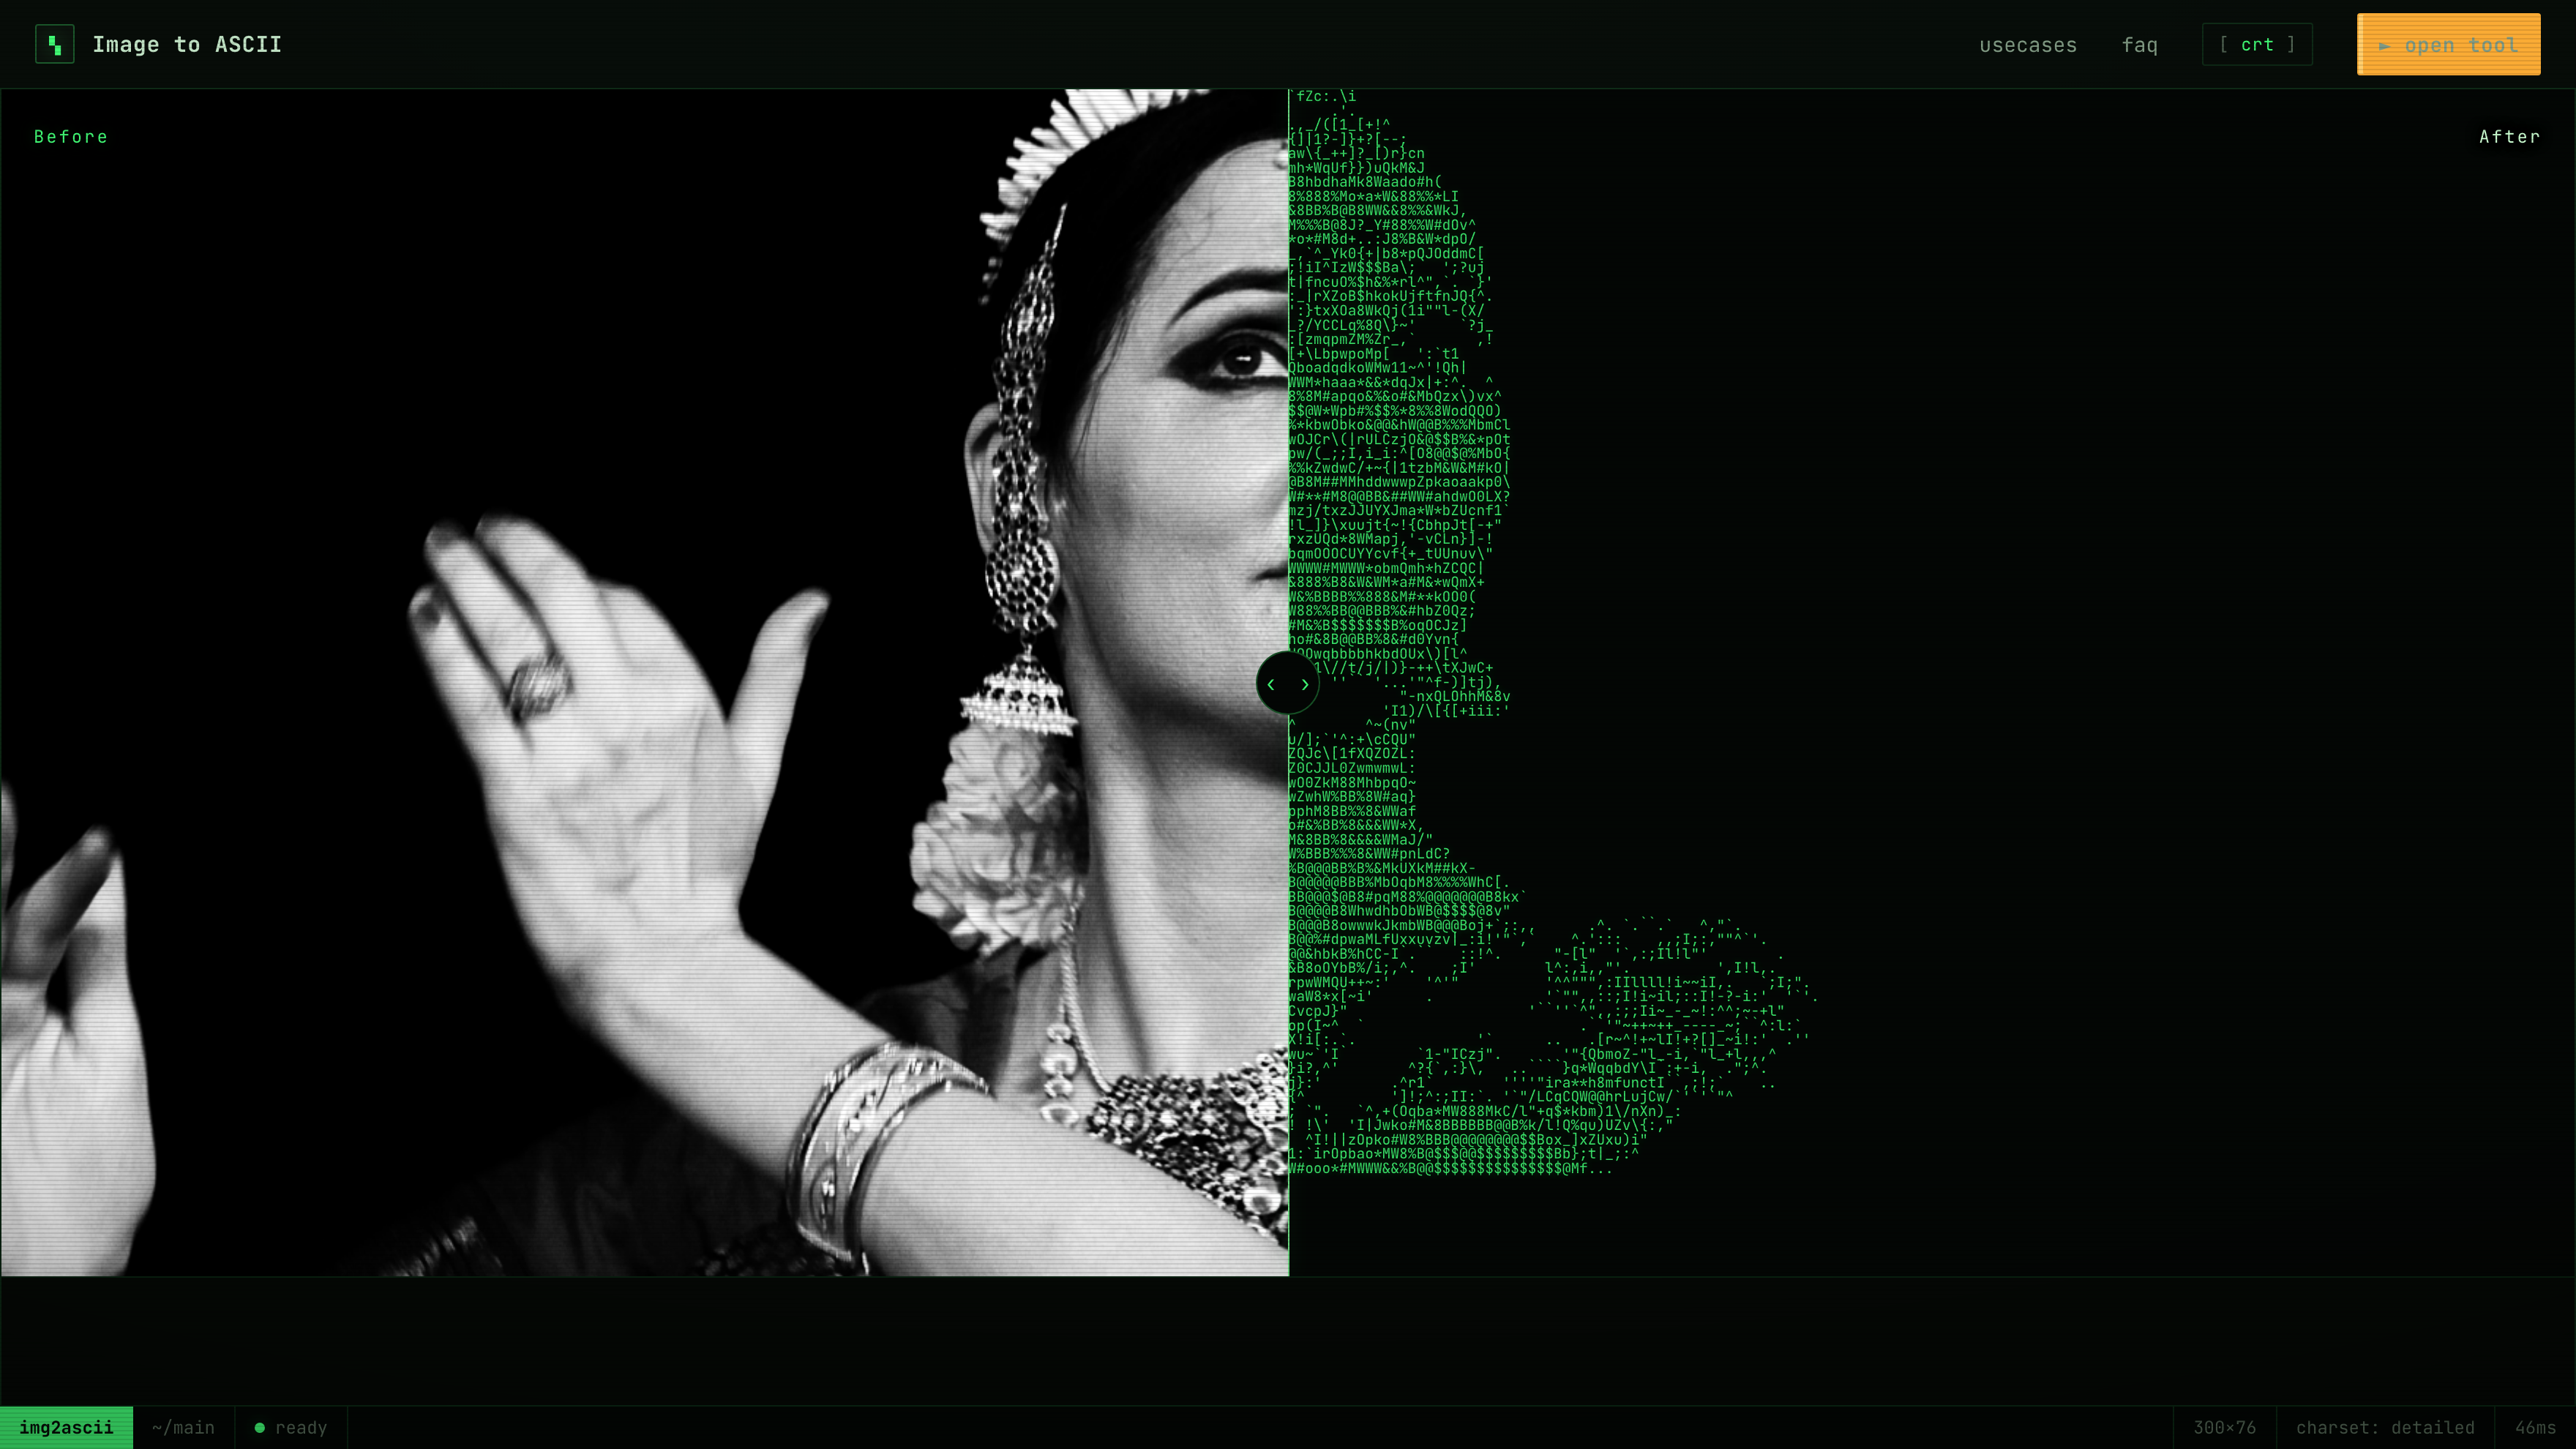
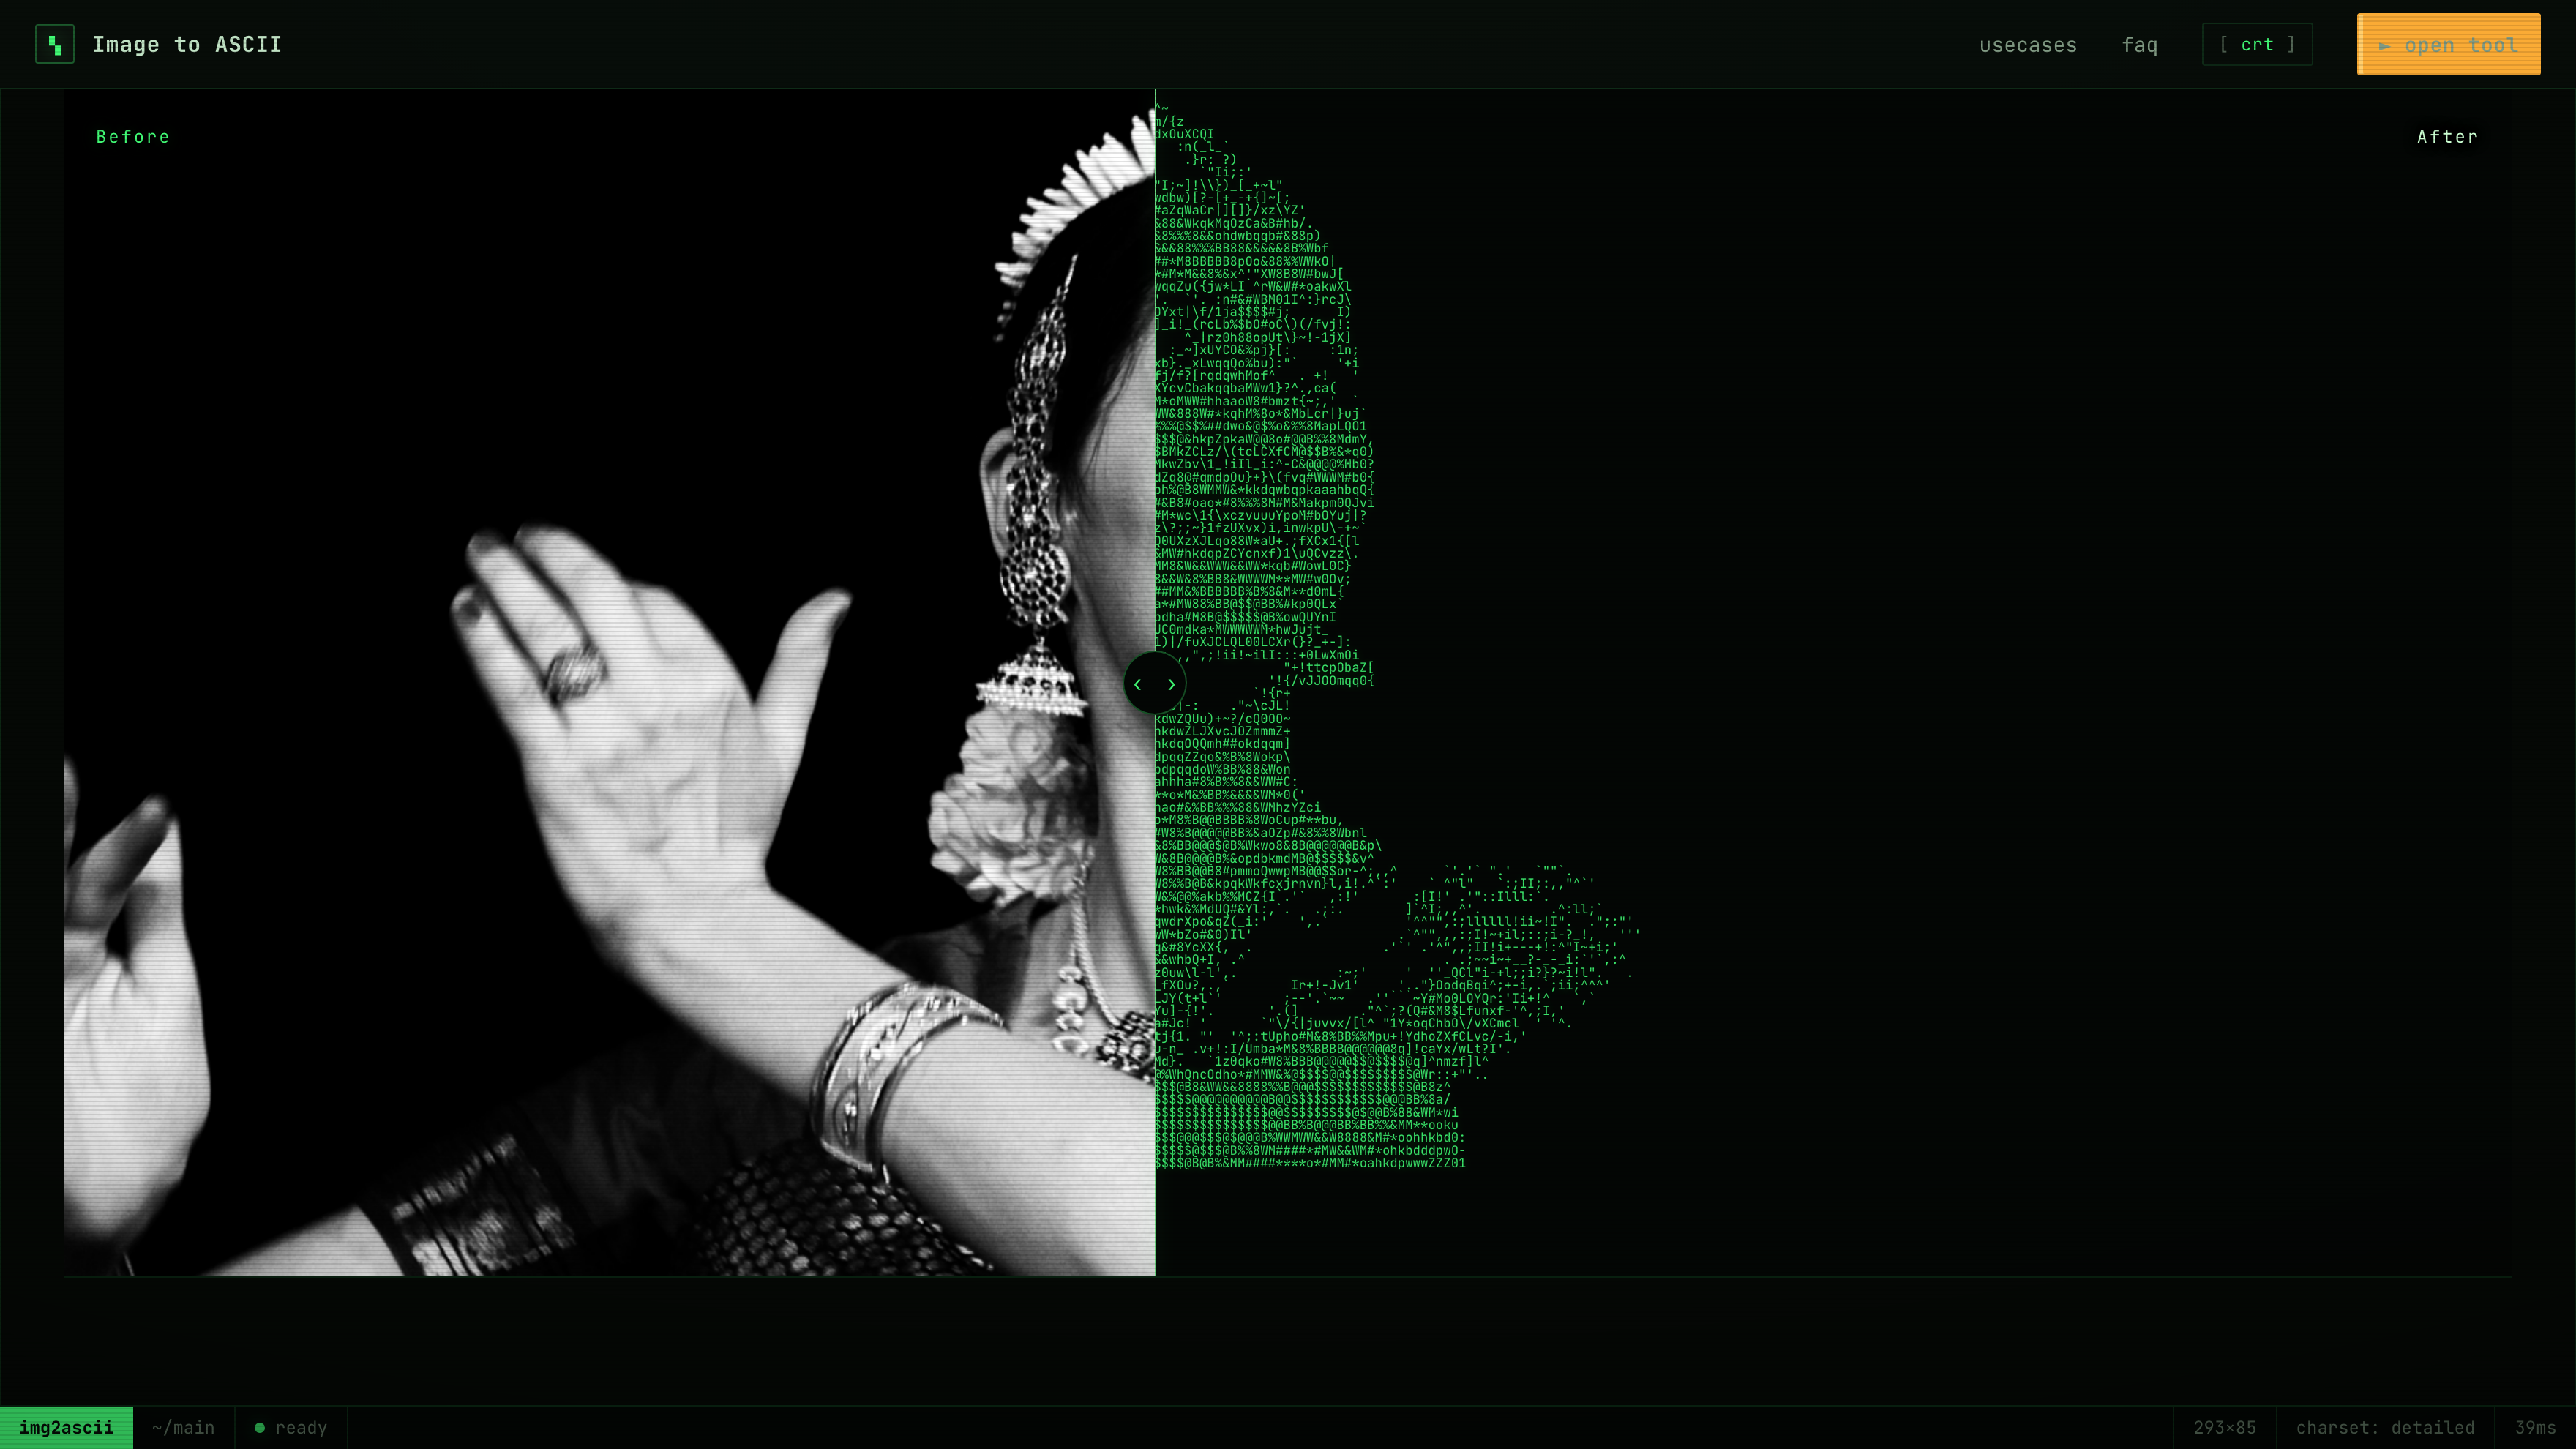
fix: 修复窗口偏矮时 hero 前后层错位,徽章改为仓库内终端风 SVG,扩写 README

Changed region(s): [[0.1562, 0.0616, 0.6875, 0.8934], [0.0, 0.5237, 0.2188, 0.8934], [0.1875, 0.7702, 0.2188, 0.801]]

diff --git a/index.html b/index.html
@@ -27,15 +27,14 @@
     --ba-pos: 50;
     position: relative;
     overflow: hidden;
-    /* the stage fills the (now 1760-capped) content column and keeps
-       the plate's native 1760×854 ratio, so on a large monitor it
-       renders pixel-exact. max-height only guards genuinely short
-       windows — on 1080p+ it stays full width, matching the sections
-       below; the ratio then trims width to keep it centered, no crop. */
+    /* the stage keeps the plate's native 1760×854 ratio at every
+       viewport. The height cap (82vh on short windows) is folded into
+       the width formula instead of max-height: with aspect-ratio +
+       max-height the photo canvas cover-fills the squashed box while
+       the ascii pre keeps its own ratio — the two layers de-register.
+       Deriving width from the same cap keeps both layers pixel-aligned. */
     aspect-ratio: 1760 / 854;
-    width: 100%;
-    max-width: 1760px;
-    max-height: 82vh;
+    width: min(100%, 1760px, calc(82vh * 1760 / 854));
     margin-inline: auto;
     background: var(--bg-deep);
     border-bottom: 1px solid var(--line);